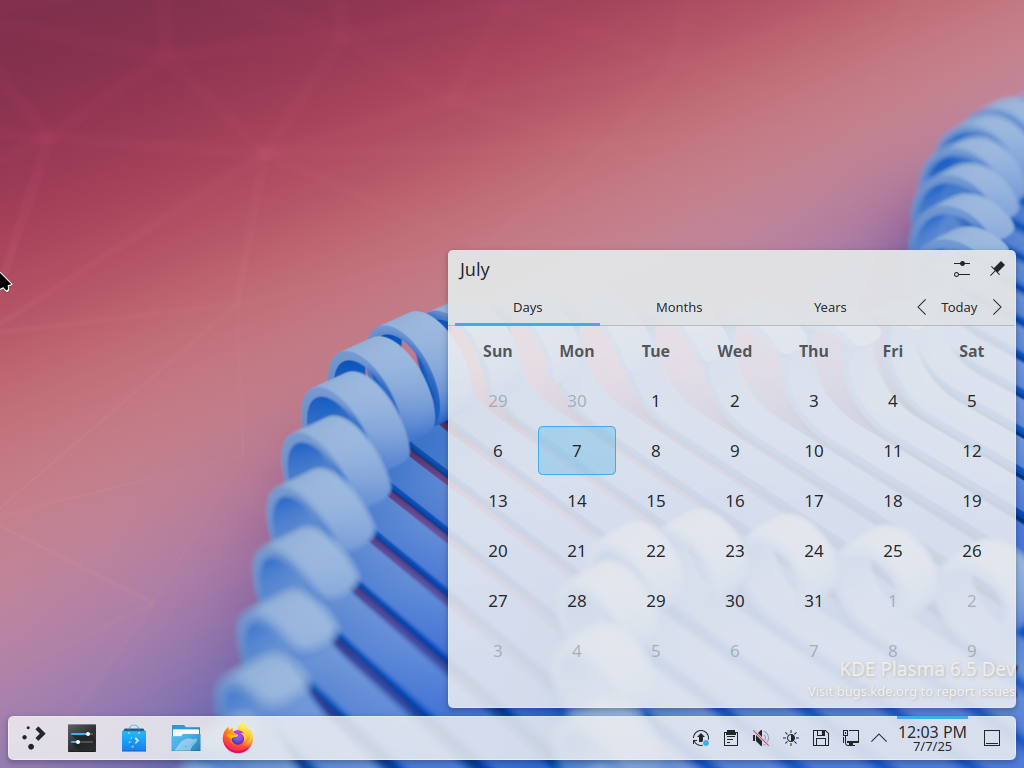
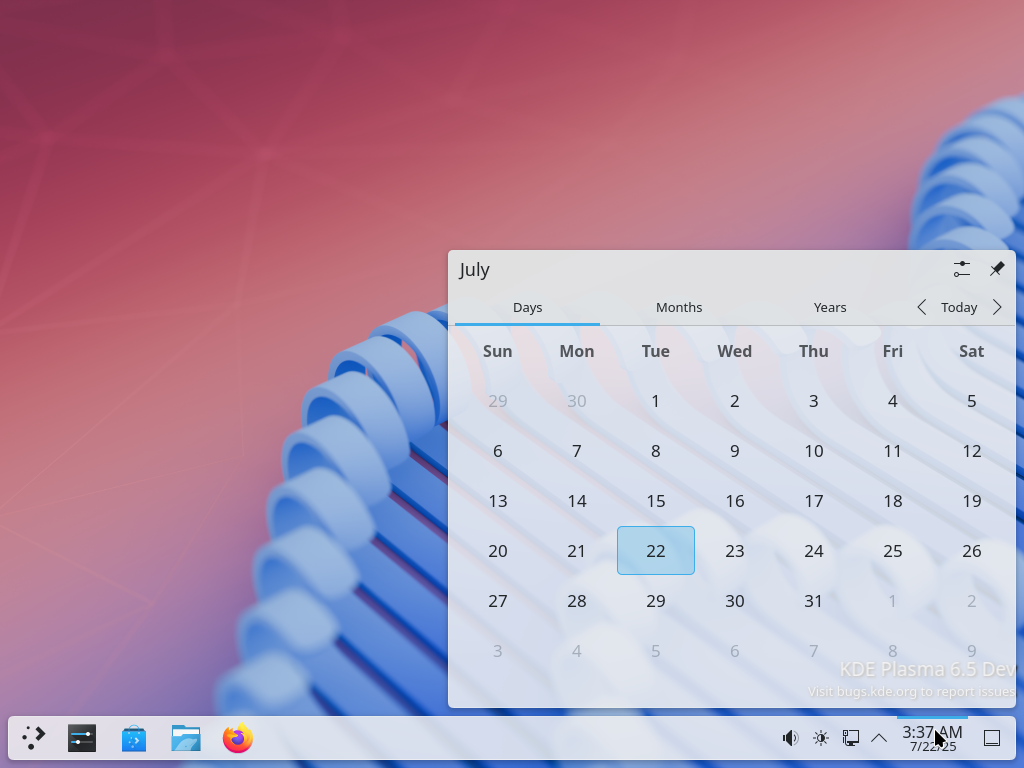
Fix needles: calamares_usersetting_screen(regression) and plasma_panel_digital_clock_default_popup(redesign) Also add an extra confirmation step for configure automatic login
.

diff --git a/lib/sessions/app/system_settings.py b/lib/sessions/app/system_settings.py
@@ -84,6 +84,9 @@ class SystemSettingsSession(BaseSession, OpenableSessionMixin):
     def click_system_settings_power_management_apply_button(self, timeout=30, button='left'):
         return self.click('system_settings_power_management_apply_button', timeout=timeout, button=button)
 
+    def expect_system_settings_login_screen_sddm_page_configure_completed(self, timeout=30):
+        return self.expect('system_settings_login_screen_sddm_page_configure_completed', timeout)
+
     def query(self, query_text):
         type_string(query_text)
         return self

diff --git a/tests/kdelinux/system_settings/configure_automatic_login.py b/tests/kdelinux/system_settings/configure_automatic_login.py
@@ -22,5 +22,6 @@ def run(self):
             .click_system_settings_login_screen_sddm_page_apply_button()
             .expect_gui_password_pop_up()
             .submit_gui_password()
+            .expect_system_settings_login_screen_sddm_page_configure_completed()
             .close_window()
     )